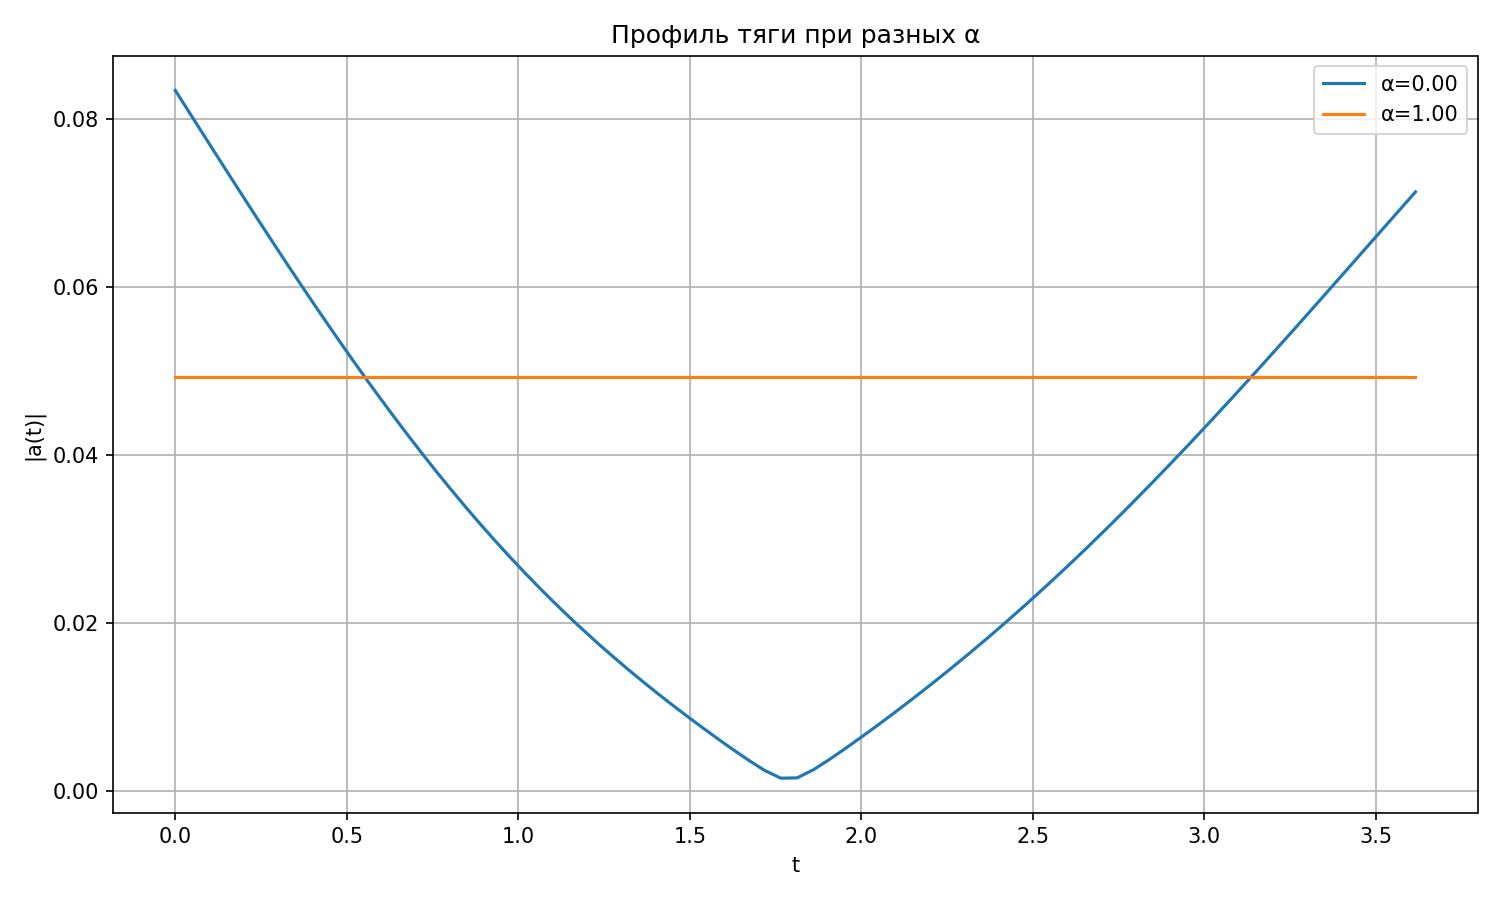
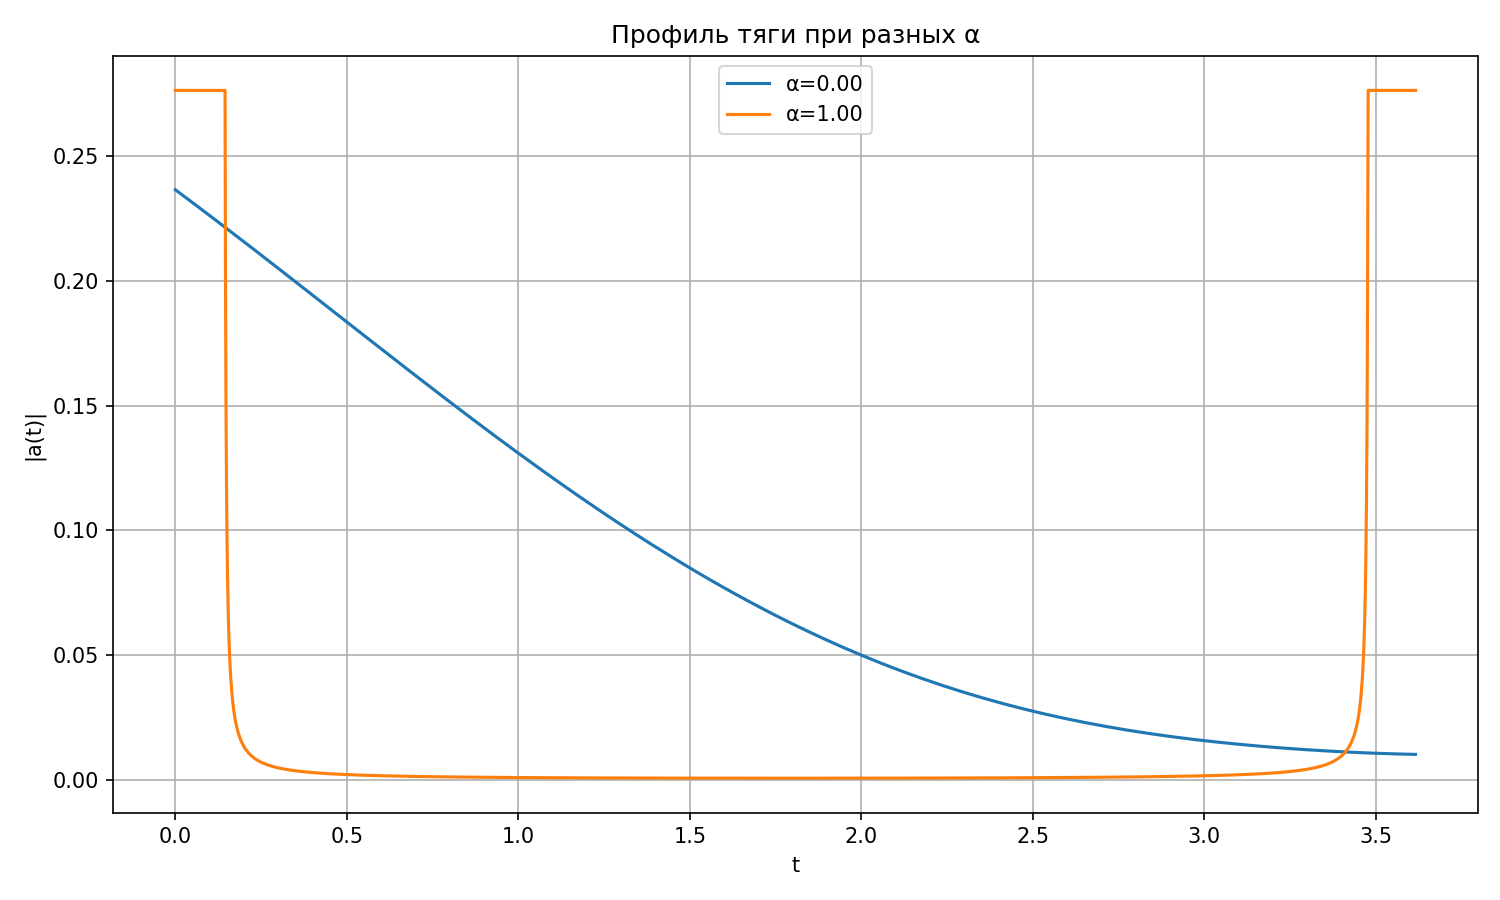
update

diff --git a/result_traj.py b/result_traj.py
@@ -6,14 +6,10 @@ from scipy.optimize import minimize, least_squares
 import matplotlib.pyplot as plt
 from approximations import T_a, get_initial_adjoint
 
-# Настройка логгирования
 logging.basicConfig(level=logging.INFO, format='%(message)s')
 logger = logging.getLogger(__name__)
 
 class OptimalControlSolver:
-    '''
-    Сlass for solving the optimal control problem using the sighting method
-    '''
     def __init__(self, mu: float, a_max: float, alpha: float, func_type):
         self.mu = mu
         self.a_max = a_max
@@ -29,32 +25,48 @@ class OptimalControlSolver:
 
     def optimal_control(self, pv):
         pv_norm = np.linalg.norm(pv)
+        eps = 1e-8
 
         if self.func_type == 'quadratic':
-            a = pv
+            return pv
 
         elif self.func_type == 'linear':
-            a = self.a_max * pv / pv_norm if pv_norm > 1e-15 else np.zeros(3)
+            if pv_norm < eps:
+                return np.zeros(3)
+            return self.a_max * pv / pv_norm
 
         elif self.func_type == 'mixed':
 
-            if self.alpha > 0.95:
-                return self.a_max * pv / pv_norm if pv_norm > 1e-12 else np.zeros(3)
+            if pv_norm < eps:
+                return np.zeros(3)
+            if abs(self.alpha) < 1e-12:
+                return pv
 
-            if abs(self.alpha) < 1e-10:
-                a = pv
-            elif abs(self.alpha - 1.0) < 1e-10:
-                a = self.a_max * pv / pv_norm if pv_norm > 1e-10 else np.zeros(3)
-            else:
-                if pv_norm <= self.alpha:
-                    a = np.zeros(3)
-                else:
-                    a = ((pv_norm - self.alpha) / (1 - self.alpha)) * (pv / pv_norm)
-                    a_norm = np.linalg.norm(a)
-                    if a_norm > self.a_max:
-                        a = (self.a_max / a_norm) * a
+            #сглаживание
+            if abs(self.alpha - 1.0) < 1e-12:
+                smooth_eps = 1e-3
+                x = pv_norm - (1 - smooth_eps)
+                smooth = 0.5 * (x + np.sqrt(x**2 + smooth_eps**2))
+                scale = np.clip(smooth / smooth_eps, 0.0, 1.0)
+                a = scale * (pv / pv_norm)
 
-        return a
+                a_norm = np.linalg.norm(a)
+                if a_norm > self.a_max:
+                    a = self.a_max * a / a_norm
+                return a
+
+            x = pv_norm - self.alpha
+            smooth = 0.5 * (x + np.sqrt(x**2 + 1e-6))
+            scale = smooth / (1 - self.alpha)
+            scale = np.clip(scale, 0.0, 1.0)
+
+            a = scale * (pv / pv_norm)
+            a_norm = np.linalg.norm(a)
+            if a_norm > self.a_max:
+                a = self.a_max * a / a_norm
+
+            return a
+
 
     def system_equations(self, t, y):
         r = y[0:3]
@@ -87,7 +99,6 @@ class OptimalControlSolver:
         )
         return sol
 
-    
     def loss(self, x):
         pr0 = x[0:3]
         pv0 = x[3:6]
@@ -113,14 +124,11 @@ class OptimalControlSolver:
             v_res = self.vf - vf
             residual = np.linalg.norm(np.hstack((r_res, v_res)))
 
-            logger.info(f"Невязка: {residual:.6f}, pr_0: [{pr0[0]:.6f}, {pr0[1]:.6f}, {pr0[2]:.6f}], "
-                        f"pv_0: [{pv0[0]:.6f}, {pv0[1]:.6f}, {pv0[2]:.6f}], a_max: {a_max:.6f}")
-
+            logger.info(f"Невязка: {residual:.6f}, pr_0: {pr0}, pv_0: {pv0}, a_max: {a_max:.6f}")
             return residual
         else:
             return 1e6
 
-    # векторная невязка
     def residual_vec(self, x):
         pr0 = x[0:3]
         pv0 = x[3:6]
@@ -154,7 +162,6 @@ class OptimalControlSolver:
         return res
 
     def solve(self, p0_guess=None, method='SLSQP', options=None):
-        #α = 0
         if abs(self.alpha) < 1e-12:
             self.a_max = 0.01
             logger.info("α = 0 a_max фиксирован = 0.01")
@@ -182,9 +189,7 @@ class OptimalControlSolver:
                 res = np.hstack((rf - self.rf, vf - self.vf))
                 res_norm = np.linalg.norm(res)
 
-                logger.info(f"[α=0] Невязка: {res_norm:.6e}, "
-                            f"pr0={pr0}, pv0={pv0}")
-
+                logger.info(f"[α=0] Невязка: {res_norm:.6e}, pr0={pr0}, pv0={pv0}")
                 return res_norm
 
             result = minimize(
@@ -202,7 +207,6 @@ class OptimalControlSolver:
             logger.info(f"[α=0] Итоговое pr0={pr0}, pv0={pv0}, a_max=0.01\n")
             return result
 
-        # общий случай
         if p0_guess is None:
             pr_0, pv_0 = get_initial_adjoint(0.5, 1.2)
             a_max_0 = np.linalg.norm(pv_0)
@@ -289,7 +293,6 @@ class OptimalControlSolver:
                     continue
 
         return results
-
 
     def compute_thrust_profile(self, trajectory):
         t = trajectory.t
@@ -379,9 +382,7 @@ if __name__ == "__main__":
     solver.plot_trajectories_2d(results_sparse, 'continuation_trajectories.png')
     solver.plot_thrust_profiles(results_sparse, 'thrust_profiles.png')
 
-    # Берём решение для alpha = 0
     traj0 = results[0]['trajectory']
-
     pv = traj0.y[9:12]
     pv_norm = np.linalg.norm(pv, axis=0)
 
